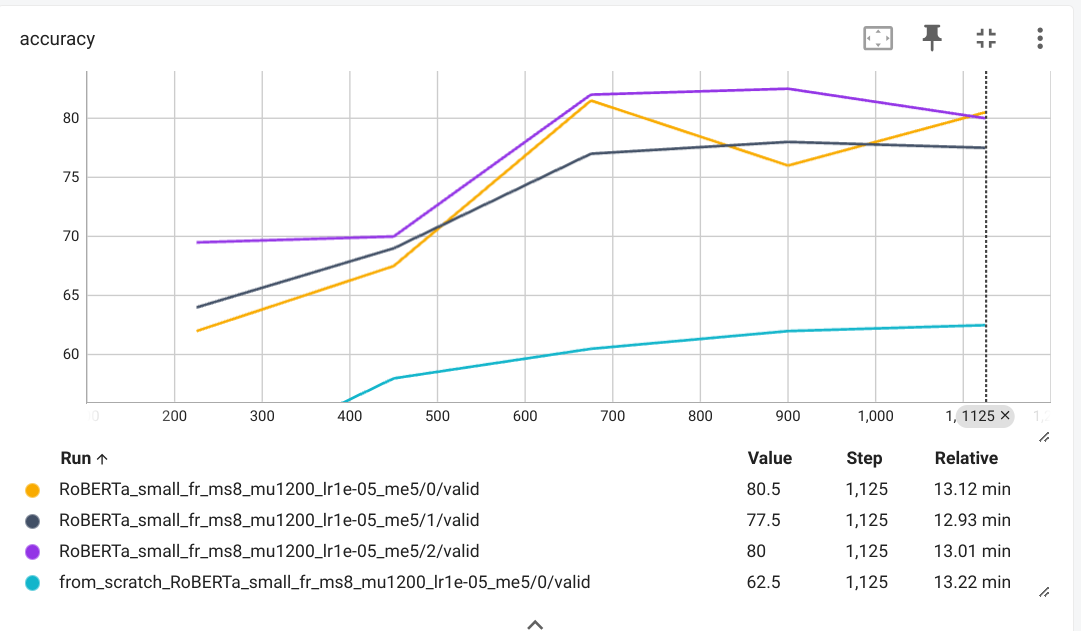
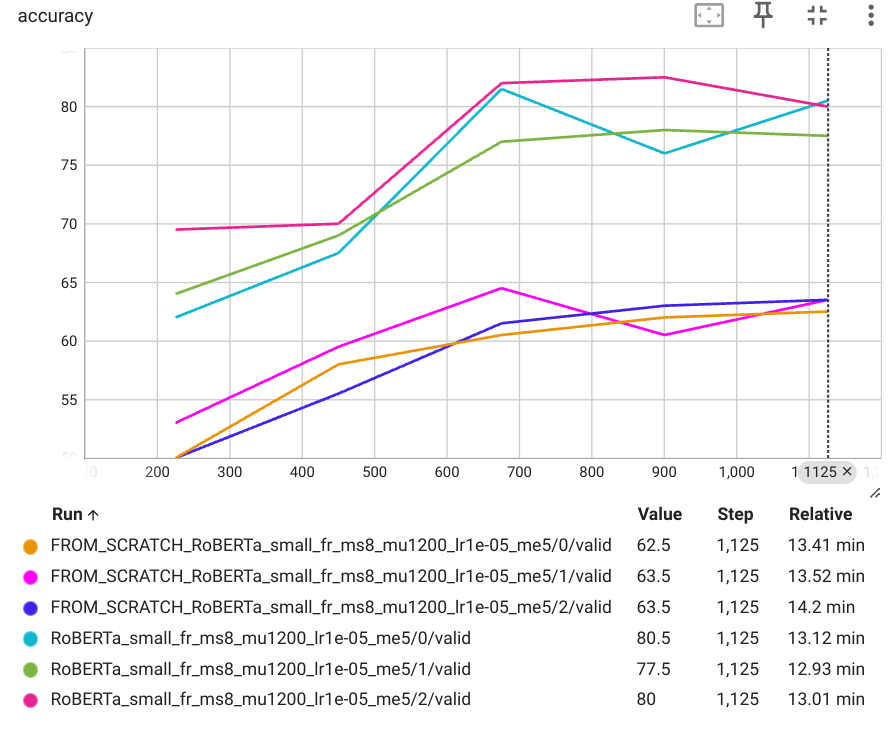
update report

diff --git a/Lab4/report/main.tex b/Lab4/report/main.tex
@@ -23,6 +23,7 @@ encoder_attention_heads = nhead = 8 # -> A = number of attentio heads
 max_positions = 256 # -> T = max length of a sentence
 \end{verbatim}
 
+
 \begin{figure}[ht]
     \centering
     \includegraphics[width=.6\textwidth]{figures/roberta_params.png}
@@ -30,6 +31,44 @@ max_positions = 256 # -> T = max length of a sentence
     Embedding layer is followed by $L=4$ Transformer units. Each Transformer unit is composed of a self-attention layer (in purple) and 2 feed forward layers (in orange)}
     \label{fig:roberta_params}
 \end{figure}
+
+\break 
+\begin{tiny}
+\begin{verbatim}
+
+        +-------------------------------------------------------+------------+---------------------+------------------+
+        |                        Modules                        | Parameters | Analytic validation | Analytic formula |
+        +-------------------------------------------------------+------------+---------------------+------------------+
+        |          sentence_encoder.embed_tokens.weight         |  16384000  |       16384000      |       D*V        |
+        |        sentence_encoder.embed_positions.weight        |   132096   |        132096       |    D*(T + 2)     |
+        |      sentence_encoder.layernorm_embedding.weight      |    512     |         512         |        D         |
+        |       sentence_encoder.layernorm_embedding.bias       |    512     |         512         |        D         |
+        +-------------------------------------------------------+------------+---------------------+------------------+
+        |   sentence_encoder.layers.0.self_attn.k_proj.weight   |   262144   |        262144       |        D²        |
+        |    sentence_encoder.layers.0.self_attn.k_proj.bias    |    512     |         512         |        D         |
+        |   sentence_encoder.layers.0.self_attn.v_proj.weight   |   262144   |        262144       |        D²        |
+        |    sentence_encoder.layers.0.self_attn.v_proj.bias    |    512     |         512         |        D         |
+        |   sentence_encoder.layers.0.self_attn.q_proj.weight   |   262144   |        262144       |        D²        |
+        |    sentence_encoder.layers.0.self_attn.q_proj.bias    |    512     |         512         |        D         |
+        |  sentence_encoder.layers.0.self_attn.out_proj.weight  |   262144   |        262144       |        D²        |
+        |   sentence_encoder.layers.0.self_attn.out_proj.bias   |    512     |         512         |        D         |
+        | sentence_encoder.layers.0.self_attn_layer_norm.weight |    512     |         512         |        D         |
+        |  sentence_encoder.layers.0.self_attn_layer_norm.bias  |    512     |         512         |        D         |
+        |          sentence_encoder.layers.0.fc1.weight         |   262144   |        262144       |        D²        |
+        |           sentence_encoder.layers.0.fc1.bias          |    512     |         512         |        D         |
+        |          sentence_encoder.layers.0.fc2.weight         |   262144   |        262144       |        D²        |
+        |           sentence_encoder.layers.0.fc2.bias          |    512     |         512         |        D         |
+        |   sentence_encoder.layers.0.final_layer_norm.weight   |    512     |         512         |        D         |
+        |    sentence_encoder.layers.0.final_layer_norm.bias    |    512     |         512         |        D         |
+        +-------------------------------------------------------+------------+---------------------+------------------+
+        |   sentence_encoder.layers.1.self_attn.k_proj.weight   |   262144   |        262144       |        D²        |
+        |    sentence_encoder.layers.1.self_attn.k_proj.bias    |    512     |         512         |        D         |
+        ...
+        |   sentence_encoder.layers.3.final_layer_norm.weight   |    512     |         512         |        D         |
+        |    sentence_encoder.layers.3.final_layer_norm.bias    |    512     |         512         |        D         |
+        +-------------------------------------------------------+------------+---------------------+------------------+
+\end{verbatim}
+\end{tiny}
 
 \subsubsection*{Analytic formula}
 Total number of trainable parameters in the model (ommiting the language modeling head) is $22829056$ (22.8M):
@@ -46,23 +85,62 @@ $$ \textbf{\#Roberta trainable parameters} = 24D^2 + DV + D(T+2)+ 42D$$
 $$ \textbf{\#Roberta trainable parameters} = 24*512**2+512*32000+512*(256+2)+42*512 = 22829056$$
 
 \subsubsection*{Note on positional embeddings}
-In the original transformer paper, they used a fixed sinusoidal function to compute the positional embedding values, but in RoBERTa they are trainable parameters).
+In the original transformer paper, they used a fixed sinusoidal function to compute the positional embedding values, but in RoBERTa they are trainable parameters.
 $D.(T+2)$ appears in the computation of the trainable positional embeddings. Thanks H. Abdine for clarifying that the +2 is for the start and end of sentence tokens.
 We will consider maximum sentences of $T=256$ tokens + the start \& end of sentence tokens.
 
+
+\subsubsection*{Remark on the number of attention heads}
+Please note that due to the tricky implementation of torch,
+$A$ does not appear in the final computation (chunk Key $K$, Query $Q$ and Value $V$ into $D$ chunks of  size $\frac{D}{A}$ ).
+This allows keeping the same computation budget with various attention heads.
+This explicitly appears in the \href{https://github.com/pytorch/pytorch/blob/main/torch/nn/modules/activation.py#L990}{pytorch source code}
+of MultiheadAttention
+\begin{verbatim}
+    self.head_dim = embed_dim // num_heads
+\end{verbatim}
+
 \subsection*{Task 2: Preprocessing}
 \begin{itemize}
-    \item Tokenize all sentences in the corpus using the provided vocabulary
-    \item Binarize the whole dataset.
-    \item Binarize labels.
+    \item Tokenize all sentences in the corpus using the provided vocabulary. This is mandatory.
+    \item Binarize the whole dataset. The binarized file \textit{(/data/cls-books-bin/input0/train.bin)} weights 569.7kb \\
+     and has clearly been compressed compared to the original training 1.741Mb file \textit{(data/cls.books/train.spm.review)}
+    \item Binarize labels... even though these are 0, 1, we remain in the same system as the rest of the pipeline.
 \end{itemize}
 
 
 
+\subsection*{Task 3 \& 4: Training report \\ Accuracy: $63.5\pm0.8\%$ from scratch VS $80.6\pm1.9\%$ from pretrained}
+Training is made of 5 epochs.
+
+$250 \textit{(steps)}*8{(sentence per batch)}=2000$ sentences in the dataset are seen by the network at each epoch.
+
+When we train from a pretrained model, we make sure that that we're able to reload the checkpoint weights
+\begin{verbatim}
+2023-11-11 17:01:15 | INFO | fairseq.trainer | Loaded checkpoint ../models/RoBERTa_small_fr/model.pt
+\end{verbatim}
+
+For task 4, we provide a fake path and make sure in the logs it's been ignored.
+\begin{verbatim}
+2023-11-13 11:50:53 | INFO | fairseq.trainer | No existing checkpoint found FAKE
+\end{verbatim}
 
 
-\subsection*{Task 3 \& 4: Training report}
+\begin{figure}[ht]
+    \centering
+    \includegraphics[width=.6\textwidth]{figures/cpu_training.png}
+    \caption{I did the fine tuning, which takes around 13 minutes per seed on the 4 CPU cores I rented on TensorDock.
+        Manageable as long as you're patient enough.}
+    \label{fig:training_cpu}
+\end{figure}
 
+We then launch tensorboard from the remote machine and forward the port to our local machine. VScode does that automatically for us.
+
+
+
+\begin{verbatim}
+tensorboard --logdir ~/MVA23_ALTEGRAD/Lab4/code/tensorboard_logs/sentence_prediction/books
+\end{verbatim}
 
 \begin{figure}[ht]
     \centering
@@ -71,7 +149,46 @@ We will consider maximum sentences of $T=256$ tokens + the start \& end of sente
     \label{fig:training_roberta}
 \end{figure}
 
+\begin{center}
+    \begin{tabular}{||c c c |} 
+     \hline
+     Seed & Pretrained & Accuracy (\%) \\ [0.5ex] 
+     \hline\hline
+     0 & No & 62.5 \\ 
+     \hline
+     1 & No & 64.5  \\
+     \hline
+     2 & No & 63.5  \\
+     \hline  \hline
+     0 & Yes & 81.5 \\
+     \hline
+     1 & Yes & 78  \\
+     \hline
+     2 & Yes & 82.5  \\ 
+     \hline
+    \end{tabular}
+\end{center}
 
+
+\begin{center}
+    \begin{tabular}{||c c c |} 
+     \hline
+     Pretrained & Average Accuracy (\%)  & Standard deviation  (\%)\\ [0.5ex] 
+     \hline\hline
+     No & 63.5  & 0.81\\ 
+     \hline
+     Yes & 80.6  & 1.92\\
+     \hline
+    \end{tabular}
+\end{center}
+
+
+\begin{figure}[ht]
+    \centering
+    \includegraphics[width=.6\textwidth]{figures/lr_curves.png}
+    \caption{Learning rate scheduler (polynomial decay starts with a warmup phase (75 steps here). Learning rate does not exceed $10^{-5}$ as mentioned in the configuration.}
+    \label{fig:lr}
+\end{figure}
 
 \section{Fine tuning Bloom}
 \subsection*{Task 6: 4bits quantization}
